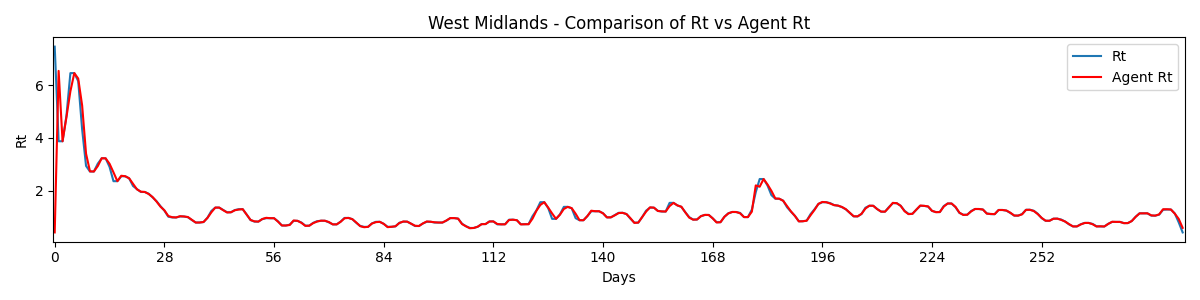
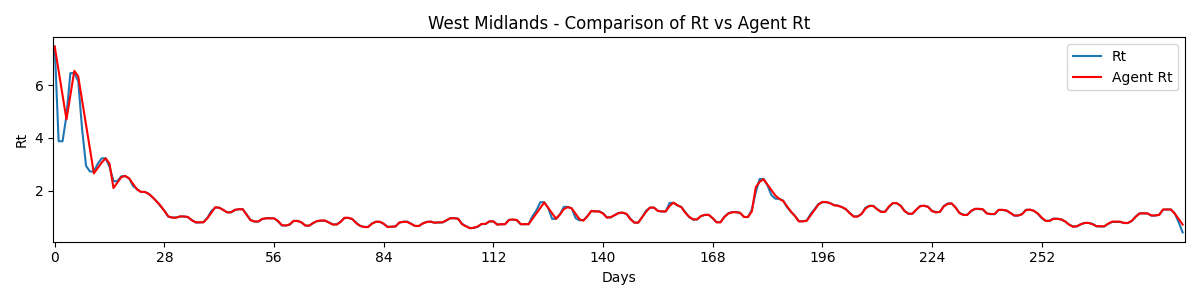
Worked on Greedy agent
Realised that the Greedy agent didn't have a core bit of code, which meant that it wasn't actually a Greedy agent.

diff --git a/code/machine learning/rtPredictor.py b/code/machine learning/rtPredictor.py
@@ -210,7 +210,7 @@ def getPotentialActionLists(rtValueChange):
         
     return regionalPotentialActionLists
 
-def greedyAgent(currRegion, actionList, firstValue=True, evaluatePoint=False, evaluateIndex=None, evaluateAction=None):
+def greedyAgent(currRegion, actionList, firstValue=True, evaluatePoint=False, evaluateAction=None):
     """
     A greedy implementation for the agent to try and mimic as closely the
     movements of the Rt values.
@@ -219,7 +219,6 @@ def greedyAgent(currRegion, actionList, firstValue=True, evaluatePoint=False, ev
         :param currRegion: List of floats, of the current region's Rt values
         :param actionList: List of floats, the changes in value that the agent will be able to use.
         :param evaluatePoint: Boolean, whether the agent is being used to evaluate the impact of a point
-        :param evaluateIndex: Integer, the index of the point that is being evaluated
         :param evaluateAction: Integer, the index for the action originally taken that needs to be ignored at the evaluatePoint
 
     OUTPUTS:
@@ -227,6 +226,8 @@ def greedyAgent(currRegion, actionList, firstValue=True, evaluatePoint=False, ev
     """
     agentRtValues = []
 
+    currRegion = deepcopy(currRegion)
+    
     if evaluatePoint:
         iterations = range(1, len(currRegion))
     else:
@@ -234,7 +235,7 @@ def greedyAgent(currRegion, actionList, firstValue=True, evaluatePoint=False, ev
 
     for currRtIndex in iterations:
         removedAction = False
-        if evaluatePoint != True or currRtIndex-1 != evaluateIndex:
+        if evaluatePoint != True or currRtIndex-1 != 0:
             actionListResults = prepareCurrentActionResults(currRegion, currRtIndex, actionList, firstValue)
         else:
             evalActionList = deepcopy(actionList)
@@ -243,7 +244,7 @@ def greedyAgent(currRegion, actionList, firstValue=True, evaluatePoint=False, ev
             removedAction = True
             
             actionListResults = prepareCurrentActionResults(currRegion, currRtIndex, evalActionList, firstValue)        
-
+        
         if firstValue:
             firstValue = False
             
@@ -256,8 +257,12 @@ def greedyAgent(currRegion, actionList, firstValue=True, evaluatePoint=False, ev
         #Correct so that compatible with original action list 
         if removedAction and currBestIndex >= evaluateAction:
             currBestIndex += 1
+        
+        #Introduce the action taken into the data
+        if currRtIndex > 0:
+            currRegion[currRtIndex] = currRegion[currRtIndex-1] + actionList[currBestIndex]
 
-        agentRtValues.append((currRegion[currRtIndex-1] + actionList[currBestIndex], currBestIndex))
+        agentRtValues.append((currRegion[currRtIndex], currBestIndex))
         
     
     return agentRtValues
@@ -278,7 +283,7 @@ def evaluatePotentialActions(prevPoint, currPoint, potentialActionList):
     """
     actionListResults = []
     for currAction in potentialActionList:
-        actionListResults.append(prevPoint + currAction - currPoint)
+        actionListResults.append((prevPoint + currAction) - currPoint)
     
     return actionListResults
 
@@ -297,9 +302,7 @@ def prepareCurrentActionResults(currRegion, currRtIndex, actionList, firstValue=
         returns a list of the resultant action of applying the current actions to the current point
     """
     if firstValue != True:
-        actionListResults = evaluatePotentialActions(currRegion[currRtIndex-1], 
-        currRegion[currRtIndex], 
-        actionList)
+        actionListResults = evaluatePotentialActions(currRegion[currRtIndex-1], currRegion[currRtIndex], actionList)
     else:
         actionListResults = evaluatePotentialActions(currRegion[currRtIndex], currRegion[currRtIndex], actionList)  
     
@@ -496,7 +499,7 @@ def runEvaluationAgent(potentialActionLists, regionRt, regionalAgentResults, age
 
                 if agentType.lower() == "greedy":
                     agentResults = greedyAgent(currRegionSubset, potentialActionLists[currRegionIndex], firstValue=False, 
-                                                evaluatePoint=True, evaluateIndex=0, evaluateAction=agentAction)
+                                                evaluatePoint=True, evaluateAction=agentAction)
                 #Remove the value since it is no longer needed
                 currRegionSubset.pop(0)
                 
